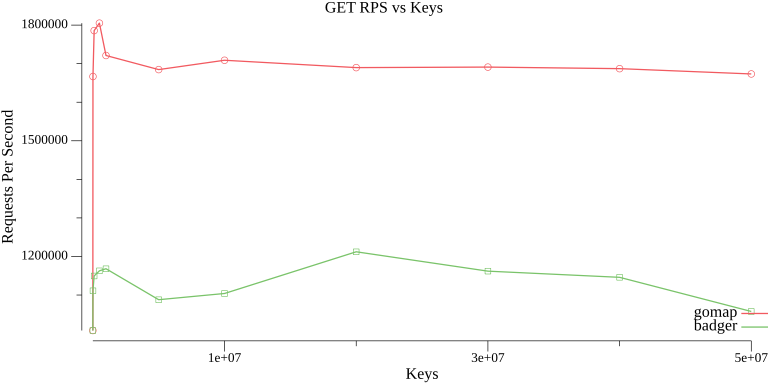
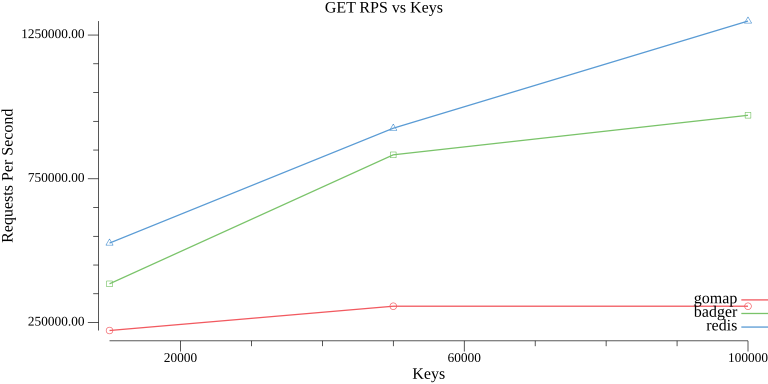
Fix benchmark report table alignment

diff --git a/benchmark/report.go b/benchmark/report.go
@@ -42,10 +42,11 @@ func SaveResultsToCSV(filename string, results []BenchmarkResult) error {
 }
 
 func PrintResultsTable(results []BenchmarkResult) {
-	fmt.Printf("\n%-8s | %-8s | %-10s | %-7s | %-10s | %-7s\n", "Engine", "Keys", "SET RPS", "SET p50", "GET RPS", "GET p50")
-	fmt.Println(strings.Repeat("-", 60))
+	fmt.Println("\nEngine   | Keys     | SET RPS      | SET p50   | GET RPS      | GET p50")
+	fmt.Println("------------------------------------------------------------------------")
 	for _, r := range results {
-		fmt.Printf("%-8s | %-8d | %-10.2f | %-7.3f | %-10.2f | %-7.3f\n",
+		fmt.Printf("%-8s | %-8d | %-12.2f | %-9.3f | %-12.2f | %-9.3f\n",
 			r.Engine, r.KeyCount, r.SetRPS, r.SetP50, r.GetRPS, r.GetP50)
 	}
+	fmt.Println("")
 }
